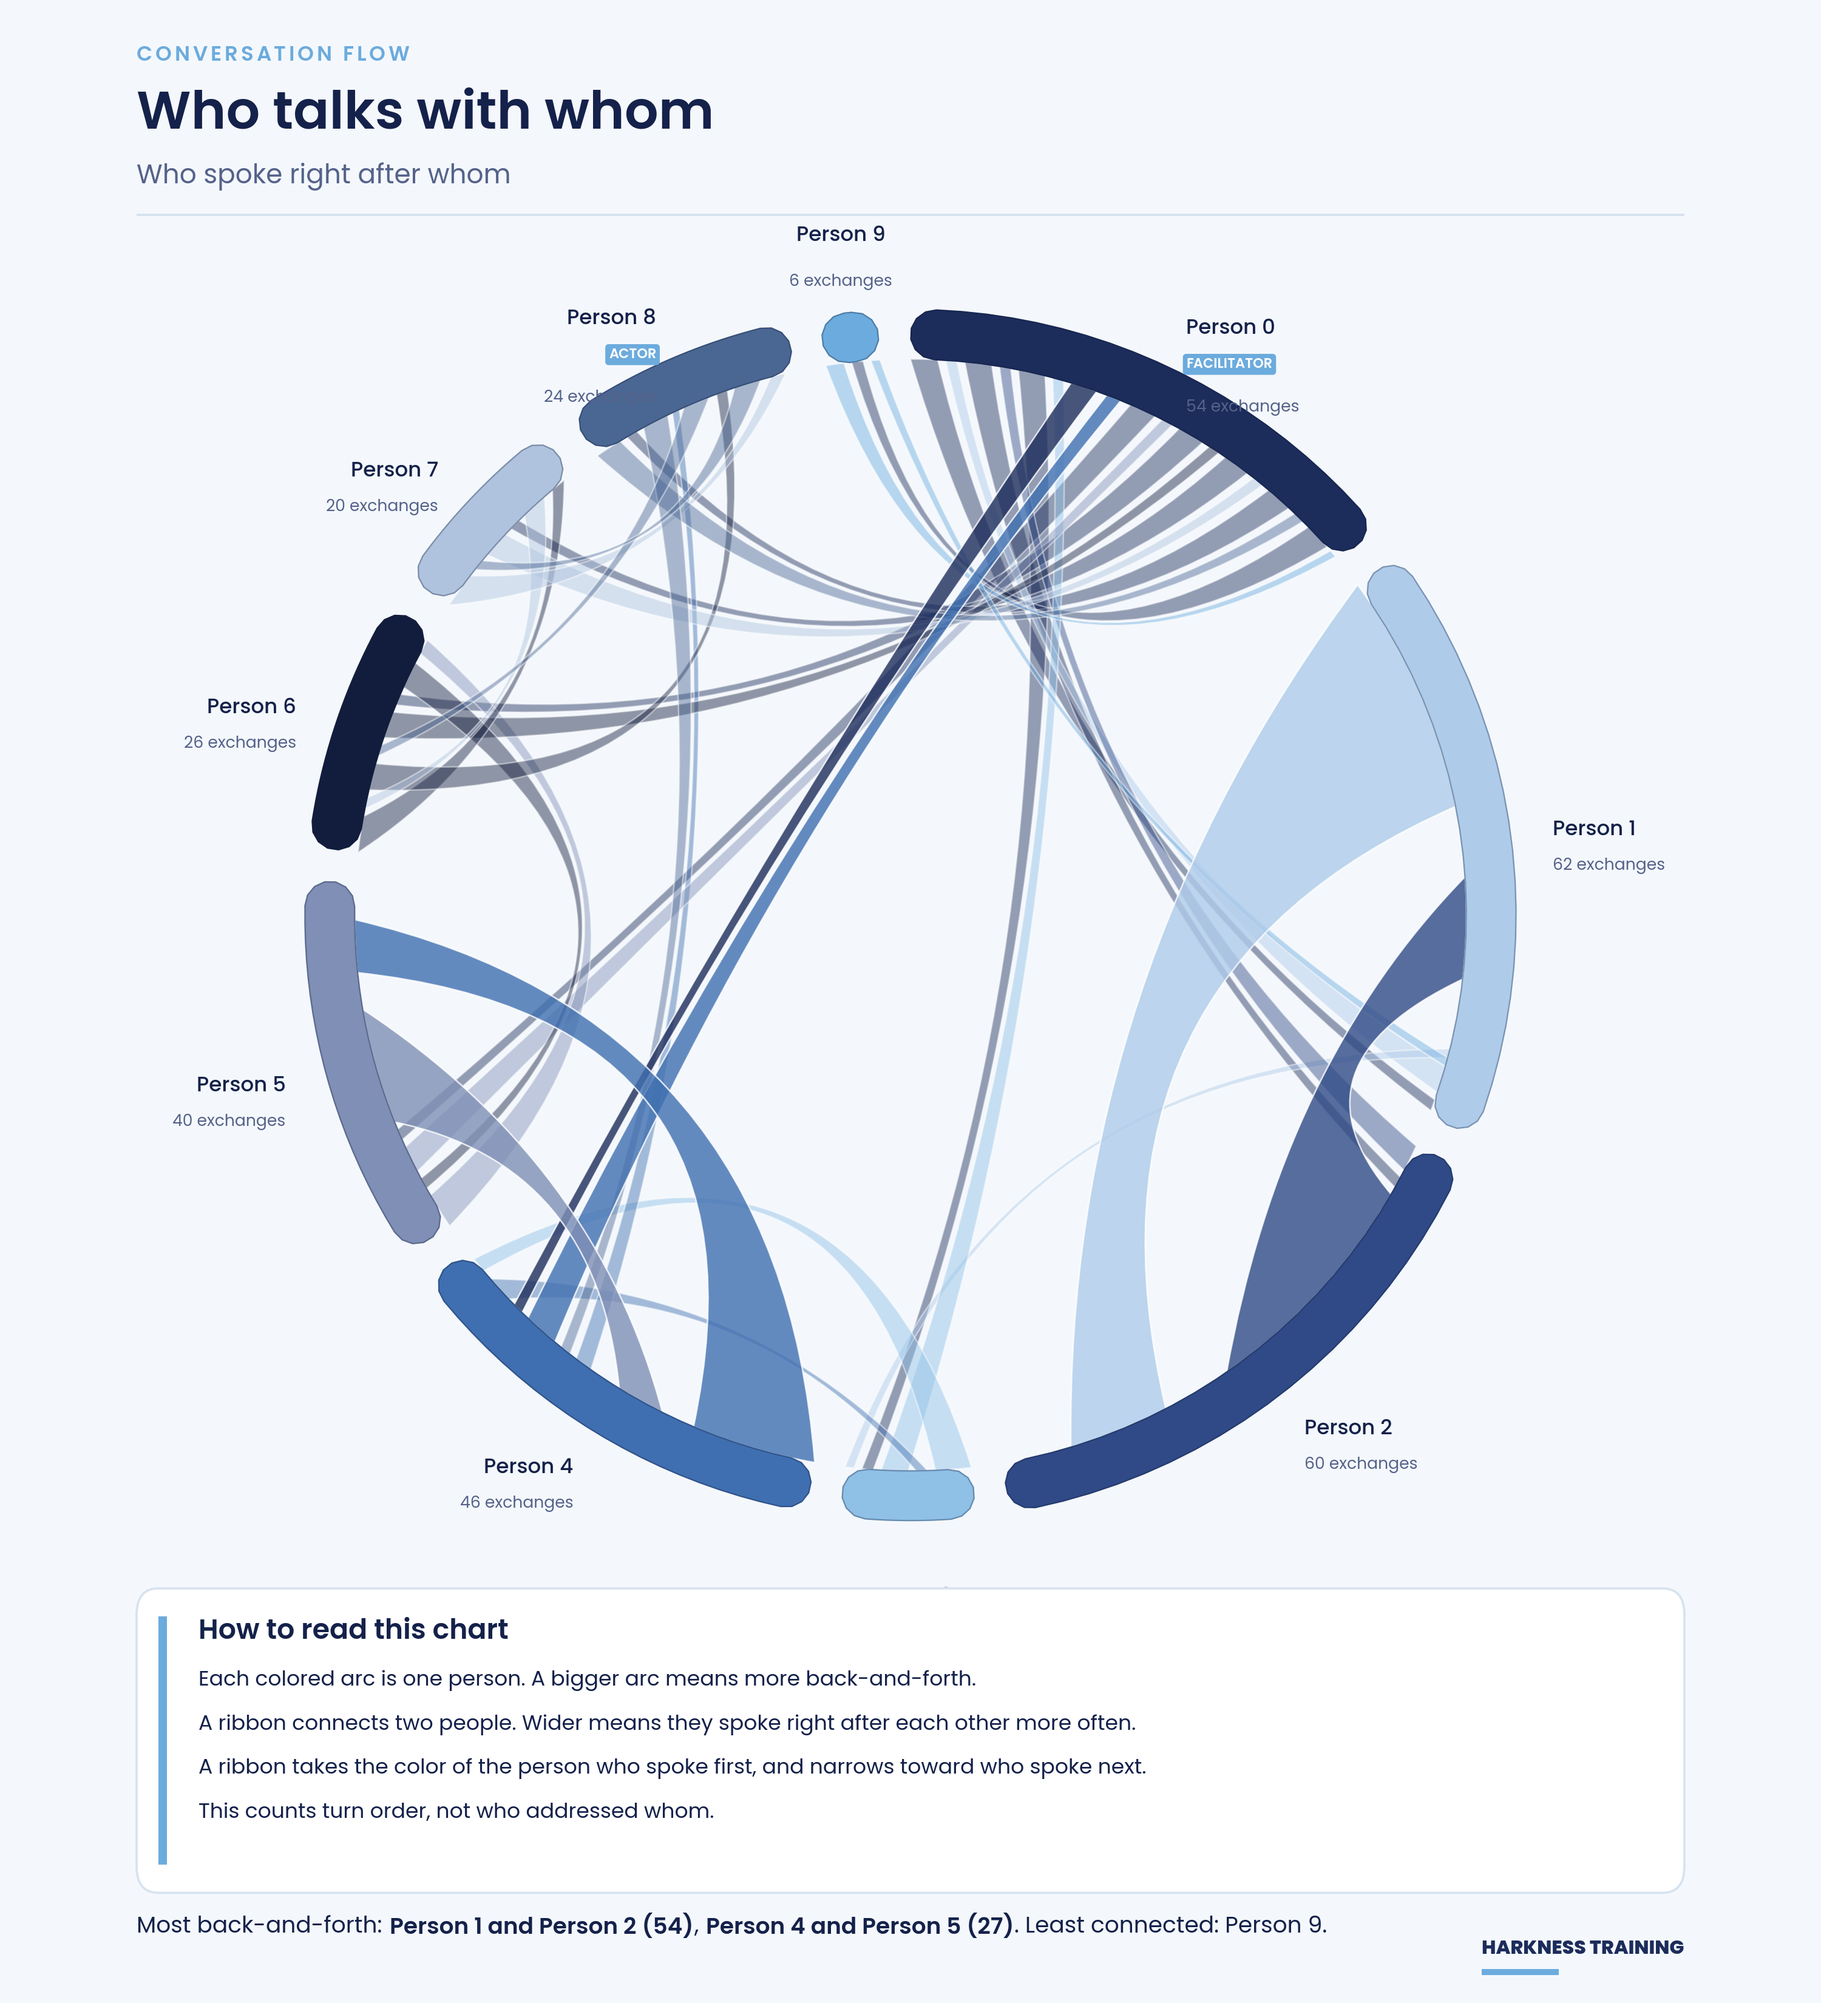
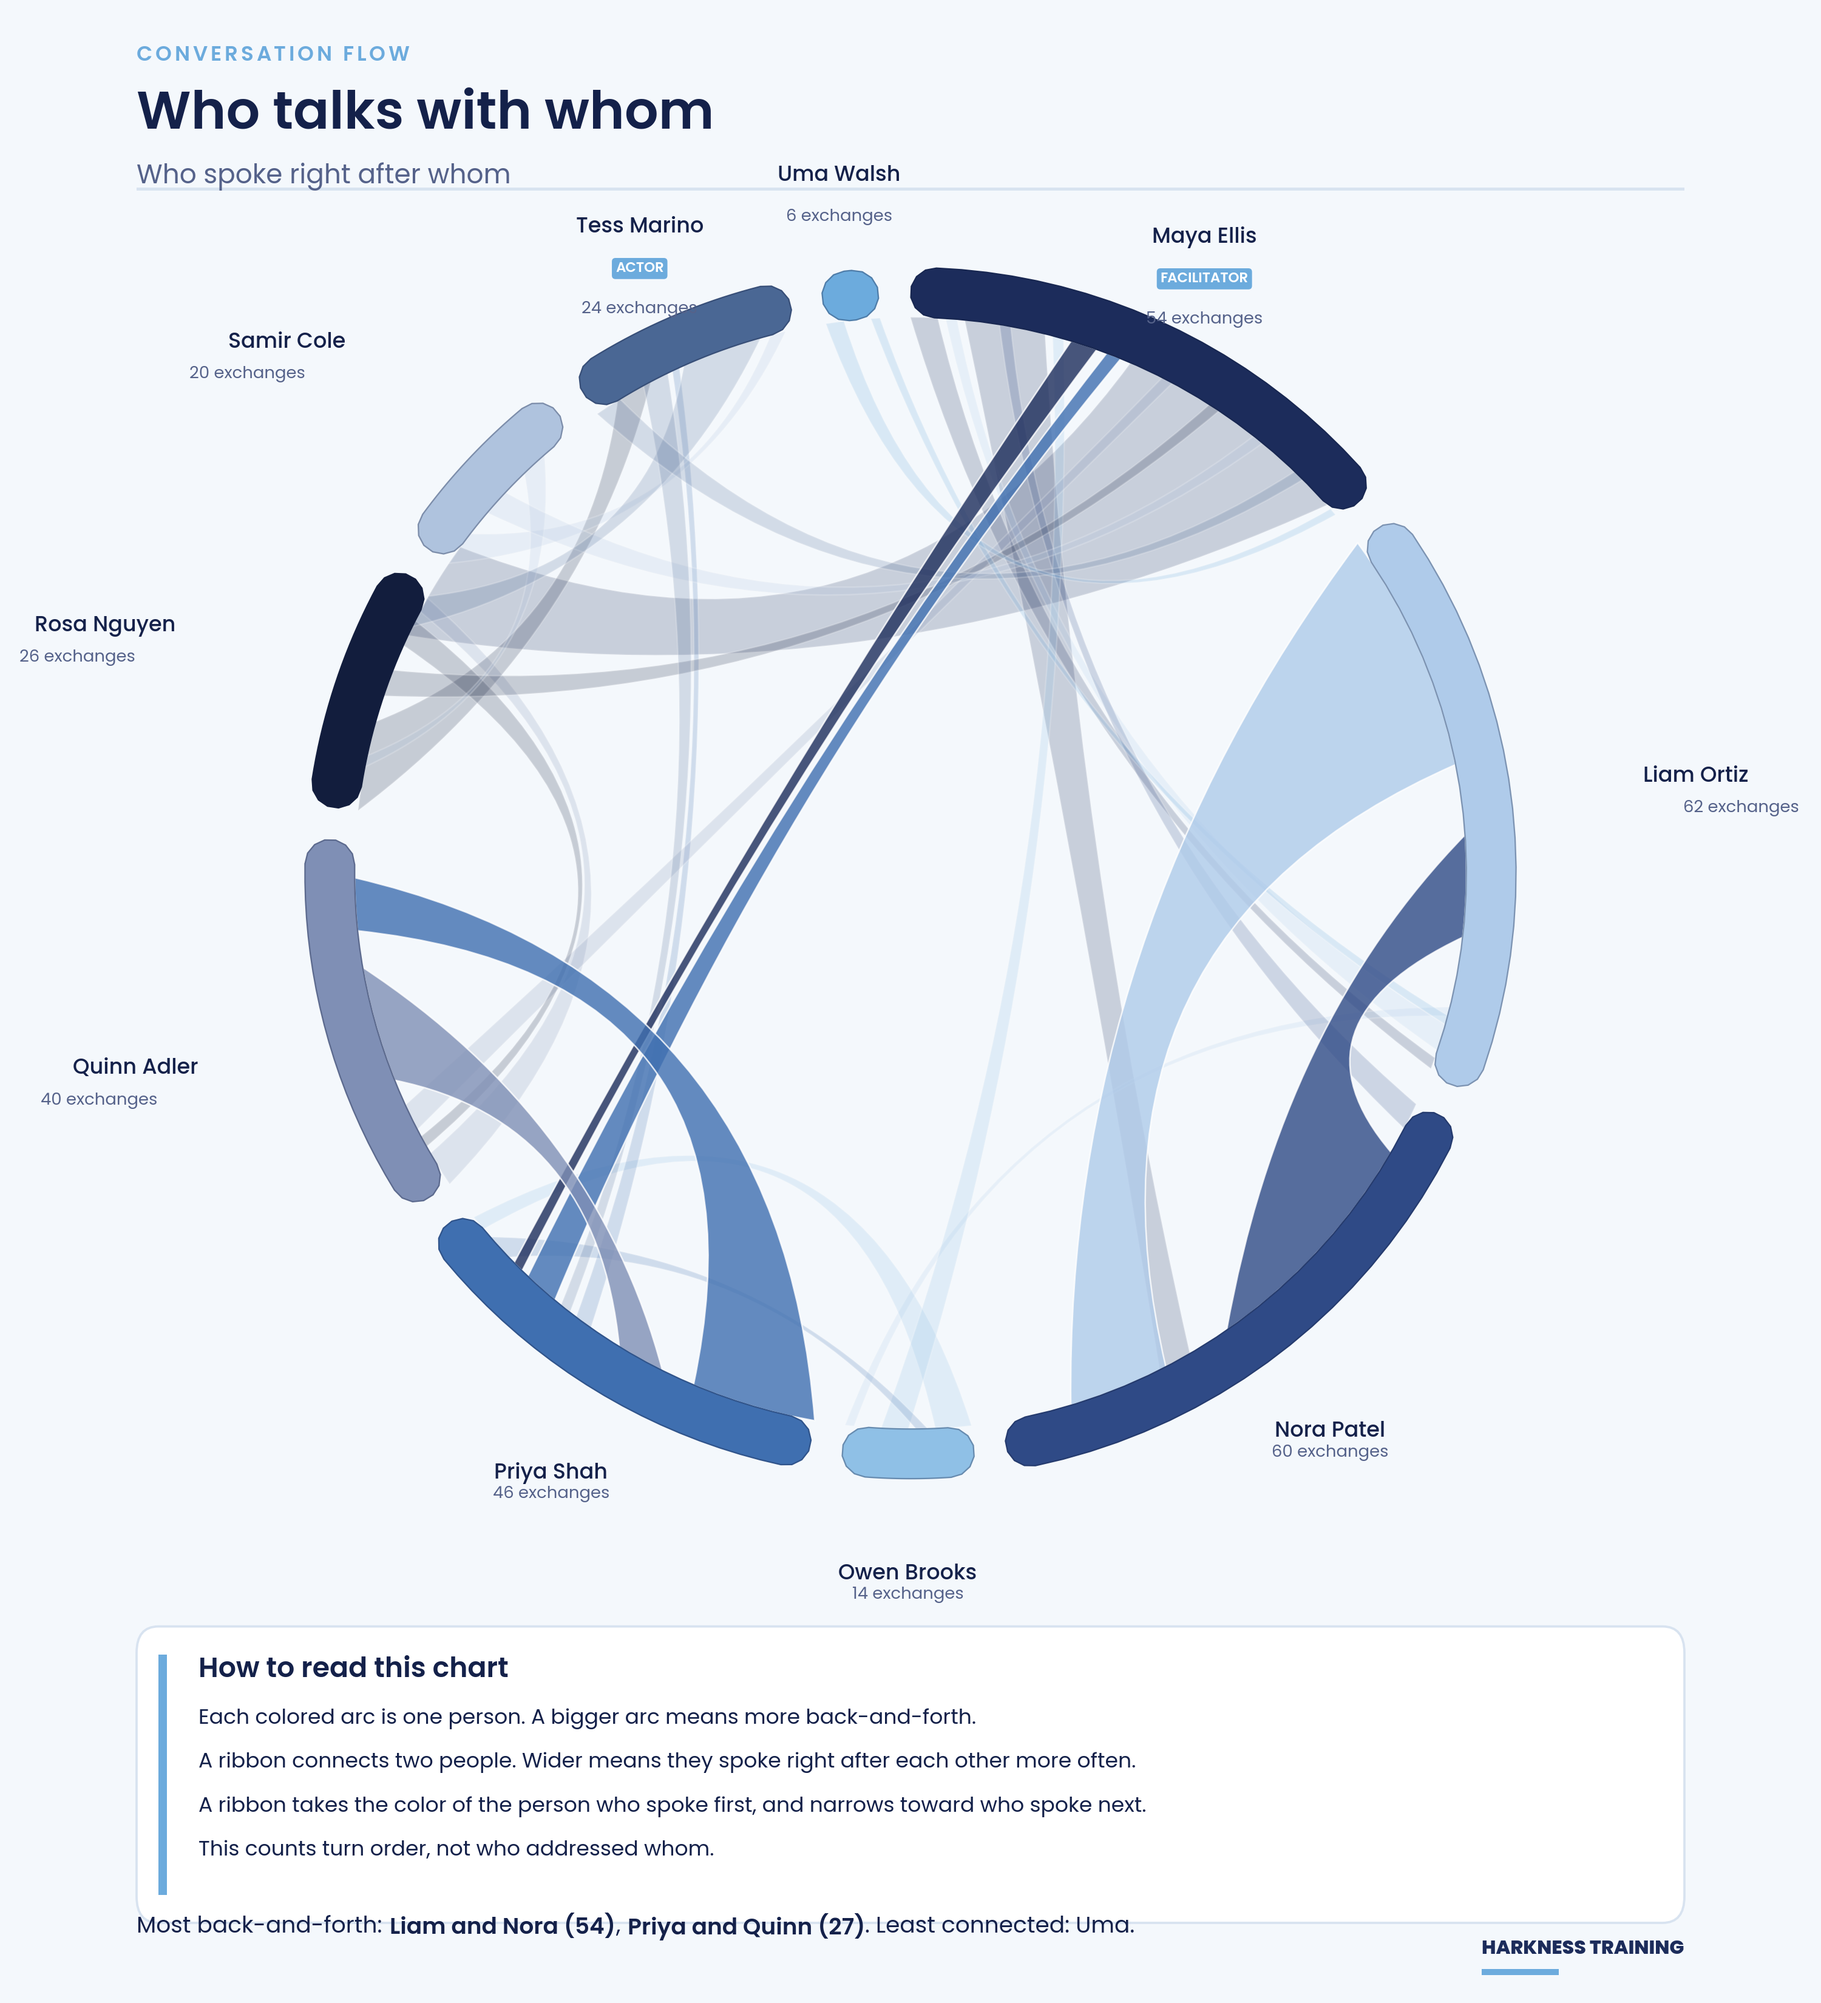
Label every arc on the ten-person chord
Names sit beyond the ring, including the small bottom arc, and overlapping labels are nudged apart. Groups larger than seven fade the thin flows and join neighboring ones into a single band.

diff --git a/lib/chord_diagram.py b/lib/chord_diagram.py
@@ -481,41 +481,139 @@ def _add_arc(axis, low: float, high: float, outer: float, thickness: float, colo
     )
 
 
-def _horizontal_alignment(angle: float) -> tuple[str, str, float]:
-    """Horizontal label alignment and how far outside the arc the block starts."""
+def _horizontal_alignment(angle: float) -> tuple[str, str]:
+    """Horizontal label alignment. The anchor sits outside the arc at one radius."""
     normalized = math.atan2(math.sin(angle), math.cos(angle))
-    if math.sin(normalized) > 0.93:
-        return 'center', 'bottom', 1.11
-    if math.sin(normalized) < -0.93:
-        return 'center', 'top', 1.11
+    if math.sin(normalized) > 0.78:
+        return 'center', 'bottom'
+    if math.sin(normalized) < -0.78:
+        return 'center', 'top'
     if math.cos(normalized) >= 0:
-        return 'left', 'center', 1.07
-    return 'right', 'center', 1.07
+        return 'left', 'center'
+    return 'right', 'center'
+
+
+def _label_box(item: dict) -> tuple[float, float, float, float]:
+    """Display-space box: left, bottom, right, top."""
+    width = item['width']
+    height = item['height']
+    px, py = item['px'], item['py']
+    if item['ha'] == 'left':
+        left, right = px, px + width
+    elif item['ha'] == 'right':
+        left, right = px - width, px
+    else:
+        left, right = px - width / 2, px + width / 2
+    if item['va'] == 'bottom':
+        bottom, top = py, py + height
+    elif item['va'] == 'top':
+        bottom, top = py - height, py
+    else:
+        bottom, top = py - height / 2, py + height / 2
+    return left, bottom, right, top
+
+
+def _separate_labels(axis, placed: list[dict]) -> None:
+    """Nudge overlapping labels apart vertically, then keep them outside the circle."""
+    if len(placed) < 2:
+        return
+    axis.figure.canvas.draw()
+    transform = axis.transData
+    inverse = transform.inverted()
+    for item in placed:
+        item['px'], item['py'] = transform.transform((item['x'], item['y']))
+        item['home_y'] = item['py']
+    for _ in range(16):
+        placed.sort(key=lambda item: item['py'])
+        moved = False
+        for earlier, later in zip(placed, placed[1:]):
+            left_a, bottom_a, right_a, top_a = _label_box(earlier)
+            left_b, bottom_b, right_b, top_b = _label_box(later)
+            if right_a < left_b - 4 or right_b < left_a - 4:
+                continue
+            overlap = min(top_a, top_b) - max(bottom_a, bottom_b)
+            if overlap <= 2:
+                continue
+            shift = overlap / 2 + 3
+            # The lower label of a bottom arc should stay in the gap above the card.
+            if earlier['va'] != 'top':
+                earlier['py'] -= shift
+            later['py'] += shift
+            moved = True
+        if not moved:
+            break
+    for item in placed:
+        data_x, data_y = inverse.transform((item['px'], item['py']))
+        # A vertical nudge must not drop the label back onto the ring.
+        radius = math.hypot(data_x, data_y)
+        if radius < 1.14:
+            scale = 1.14 / max(radius, 1e-6)
+            data_x *= scale
+            data_y *= scale
+        item['x'], item['y'] = float(data_x), float(data_y)
 
 
 def _draw_labels(axis, names, arcs, spans, roles, colors) -> None:
     count = len(names)
-    name_size = 10.0 if count <= 8 else 8.2
-    count_size = 7.4 if count <= 8 else 6.4
-    role_size = 6.1 if count <= 8 else 5.4
+    name_size = 10.0 if count <= 8 else 8.4
+    count_size = 7.4 if count <= 8 else 6.6
+    role_size = 6.1 if count <= 8 else 5.5
     name_font = load_poppins('medium')
     count_font = load_poppins('regular')
     role_font = load_poppins('semibold')
+    label_radius = 1.12 if count <= 8 else 1.22
     pill = {
         'boxstyle': 'round,pad=0.22',
         'facecolor': SKY,
         'edgecolor': SKY,
         'linewidth': 0.4,
     }
+    placed = []
     for position, (low, high) in enumerate(spans):
         angle = (low + high) / 2
-        align, vertical, radius = _horizontal_alignment(angle)
+        align, vertical = _horizontal_alignment(angle)
+        # Bottom labels hang into the gap under the circle. The others sit further
+        # out so a second line cannot fall back onto the ring.
+        normalized = math.atan2(math.sin(angle), math.cos(angle))
+        if vertical == 'top':
+            radius = 1.06
+        elif vertical == 'bottom':
+            radius = 1.10 if count <= 8 else 1.05
+        elif count > 7 and math.sin(normalized) > 0.2:
+            radius = max(label_radius, 1.28)
+        else:
+            radius = label_radius
         anchor = _polar(angle, radius)
+        name = names[position]
+        role = roles.get(name, 'participant')
+        has_role = role in {'facilitator', 'actor'}
+        width = max(
+            _text_width(name, name_font, name_size),
+            _text_width(f'{arcs[position]} exchanges', count_font, count_size),
+        )
+        height = name_size + count_size + (role_size + 10 if has_role else 0) + 16
+        placed.append(
+            {
+                'x': anchor[0],
+                'y': anchor[1],
+                'ha': align,
+                'va': vertical,
+                'width': width * axis.figure.dpi / 72.0,
+                'height': height * axis.figure.dpi / 72.0,
+                'position': position,
+            }
+        )
+    if count > 7:
+        _separate_labels(axis, placed)
+    for item in placed:
+        position = item['position']
         name = names[position]
         exchanges = arcs[position]
         exchange_word = 'exchange' if exchanges == 1 else 'exchanges'
         role = roles.get(name, 'participant')
         has_role = role in {'facilitator', 'actor'}
+        anchor = (item['x'], item['y'])
+        align, vertical = item['ha'], item['va']
         axis.text(
             anchor[0],
             anchor[1],
@@ -529,17 +627,20 @@ def _draw_labels(axis, names, arcs, spans, roles, colors) -> None:
             zorder=8,
         )
         if vertical == 'bottom':
-            first_line = -14
+            first_line = -12
         elif vertical == 'top':
-            first_line = -(name_size + 8)
+            first_line = -(name_size + 4)
         else:
-            first_line = -(name_size * 0.62 + 9)
-        second_line = first_line - 17
+            first_line = -(name_size * 0.55 + 8)
+        # Near the top, a line placed straight under the name falls onto the ring.
+        outward_x = 0
+        if count > 7 and vertical == 'center' and math.sin(normalized) > 0.2:
+            outward_x = 16 if align == 'left' else -16
         if has_role:
             axis.annotate(
                 'FACILITATOR' if role == 'facilitator' else 'ACTOR',
                 xy=anchor,
-                xytext=(0, first_line),
+                xytext=(outward_x, first_line),
                 textcoords='offset points',
                 ha=align,
                 va='center',
@@ -551,10 +652,13 @@ def _draw_labels(axis, names, arcs, spans, roles, colors) -> None:
                 zorder=8,
                 annotation_clip=False,
             )
+            count_offset = first_line - 16
+        else:
+            count_offset = first_line
         axis.annotate(
             f'{exchanges} {exchange_word}',
             xy=anchor,
-            xytext=(0, second_line if has_role else first_line),
+            xytext=(outward_x, count_offset),
             textcoords='offset points',
             ha=align,
             va='center',
@@ -644,7 +748,7 @@ def _draw_caption(figure, caption: str, x: float, y: float, width: float) -> flo
 def _draw_guide(figure, caption: str) -> None:
     semibold = load_poppins('semibold')
     regular = load_poppins('regular')
-    card_x, card_y, card_w, card_h = 0.075, 0.055, 0.85, 0.152
+    card_x, card_y, card_w, card_h = 0.075, 0.040, 0.85, 0.148
     figure.add_artist(
         FancyBboxPatch(
             (card_x, card_y),
@@ -760,7 +864,7 @@ def _draw_header(figure, title: str) -> None:
     )
     figure.add_artist(
         Rectangle(
-            (0.075, 0.892),
+            (0.075, 0.905),
             0.85,
             1.15 / (figure.get_figheight() * 72),
             transform=figure.transFigure,
@@ -797,7 +901,7 @@ def save_chord_diagram(
     axis = figure.add_axes(
         [
             (figure_width - axes_inches) / 2 / figure_width,
-            2.45 / figure_height,
+            2.68 / figure_height,
             axes_inches / figure_width,
             axes_inches / figure_height,
         ]
@@ -807,11 +911,16 @@ def save_chord_diagram(
     axis.set_xlim(-1.06, 1.06)
     axis.set_ylim(-1.06, 1.06)
     axis.set_facecolor('none')
+    axis.set_clip_on(False)
+    axis.set_zorder(4)
     outer = 1.0
     thickness = 0.082
     inner = outer - thickness
 
+    total_turns = sum(sum(row) for row in directed) or 1
+    fade_below = 0.03 * total_turns if count > 7 else 0
     drawings = []
+    weak_by_source: dict[int, list[int]] = {source: [] for source in range(count)}
     for source in range(count):
         for target in range(count):
             weight = directed[source][target]
@@ -821,11 +930,29 @@ def save_chord_diagram(
                 continue
             pair = tuple(sorted((source, target)))
             emphasized = pair in strong
-            drawings.append((2 if emphasized else 1, source, target, source_span, incoming_span, emphasized))
+            if fade_below and weight < fade_below and not emphasized:
+                weak_by_source[source].append(target)
+                continue
+            alpha = 0.80 if emphasized else 0.45
+            drawings.append((2 if emphasized else 1, source, source_span, incoming_span, alpha))
+    for source, targets in weak_by_source.items():
+        targets.sort(key=lambda target: sum(spans[target]) / 2)
+        clusters: list[list[int]] = []
+        for target in targets:
+            midpoint = sum(spans[target]) / 2
+            if clusters and _angular_separation(sum(spans[clusters[-1][-1]]) / 2, midpoint) < 0.8:
+                clusters[-1].append(target)
+            else:
+                clusters.append([target])
+        for cluster in clusters:
+            source_parts = [ends[source][('out', target)] for target in cluster]
+            incoming_parts = [ends[target][('in', source)] for target in cluster]
+            source_span = (min(part[0] for part in source_parts), max(part[1] for part in source_parts))
+            incoming_span = (min(part[0] for part in incoming_parts), max(part[1] for part in incoming_parts))
+            drawings.append((0, source, source_span, incoming_span, 0.20))
     drawings.sort(key=lambda item: item[0])
 
-    for rank, source, target, source_span, incoming_span, emphasized in drawings:
-        alpha = 0.80 if emphasized else 0.45
+    for rank, source, source_span, incoming_span, alpha in drawings:
         axis.add_patch(
             PathPatch(
                 _directed_ribbon(source_span, _target_span(source_span, incoming_span), inner),

diff --git a/tests/test_chord.py b/tests/test_chord.py
@@ -150,8 +150,19 @@ def six_person_session() -> tuple[list[str], list[str], dict[str, str]]:
 
 
 def ten_person_session() -> tuple[list[str], list[str], dict[str, str]]:
-    """About 200 turns. Person 0 is central, Person 1 and 2 are the strong pair, Person 9 is quiet."""
-    names = [f'Person {index}' for index in range(10)]
+    """About 200 turns. Maya holds the middle, Liam and Nora lock in, Uma is quiet."""
+    names = [
+        'Maya Ellis',
+        'Liam Ortiz',
+        'Nora Patel',
+        'Owen Brooks',
+        'Priya Shah',
+        'Quinn Adler',
+        'Rosa Nguyen',
+        'Samir Cole',
+        'Tess Marino',
+        'Uma Walsh',
+    ]
     facilitator, left, right, quiet = names[0], names[1], names[2], names[9]
     sequence: list[str] = []
     for other in [name for name in names if name != facilitator] * 2:
